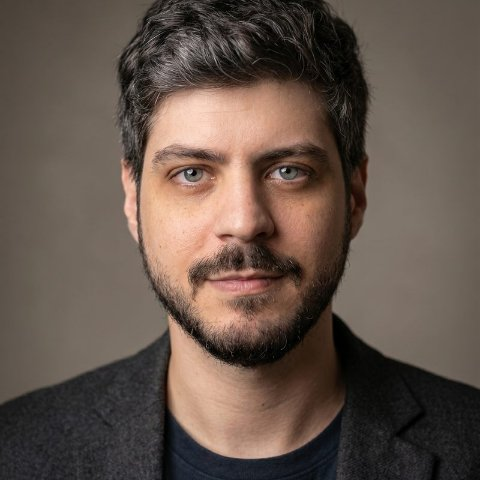
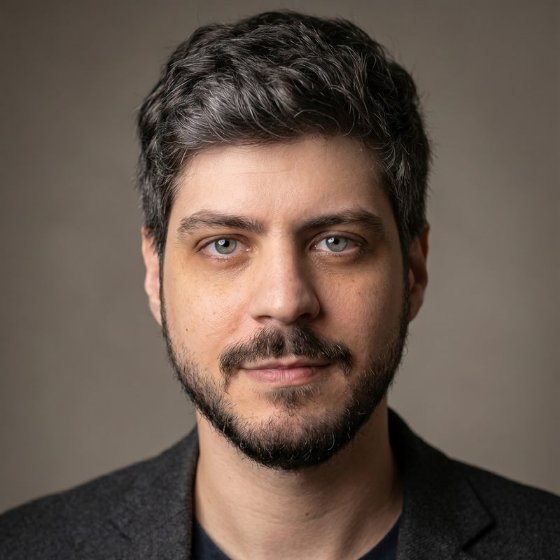
Enlarge profile photo with full headroom; note 11+ free tools
- Avatar recropped from the top of the portrait (no trimmed hair)
  and enlarged from 100px to 128px inside bigger breathing rings
- Ferramentas card caption now reads '+ de 11 ferramentas gratuitas
  no meu site'

Claude-Session: https://claude.ai/code/session_016N6Ckc6JX7xpGCAVXDc12H

diff --git a/src/index.css b/src/index.css
@@ -98,8 +98,8 @@ body {
    respiração guiada. */
 .avatar-breath {
   position: relative;
-  width: 128px;
-  height: 128px;
+  width: 158px;
+  height: 158px;
   display: grid;
   place-items: center;
   margin-bottom: 10px;
@@ -140,8 +140,8 @@ body {
 }
 
 .avatar-photo {
-  width: 100px;
-  height: 100px;
+  width: 128px;
+  height: 128px;
   border-radius: 50%;
   object-fit: cover;
   border: 3px solid var(--white);

diff --git a/src/App.jsx b/src/App.jsx
@@ -214,8 +214,8 @@ export default function App() {
               className="avatar-photo"
               src={PROFILE.photo}
               alt={`Foto de ${PROFILE.name}`}
-              width="100"
-              height="100"
+              width="128"
+              height="128"
             />
           </Motion.button>
           <Motion.button

diff --git a/src/config.js b/src/config.js
@@ -55,7 +55,7 @@ export const LINK_GROUPS = [
       {
         icon: 'tools',
         label: 'Ferramentas de autoconhecimento',
-        desc: 'Testes e recursos gratuitos no meu site',
+        desc: '+ de 11 ferramentas gratuitas no meu site',
         href: `${SITE_URL}/ferramentas`,
       },
     ],
